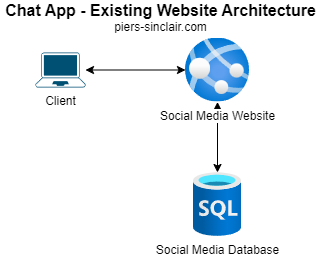
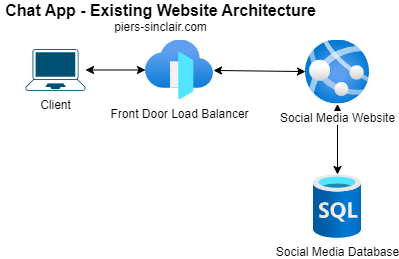
Add user status

Changed region(s): [[0.0, 0.0, 1.0, 0.9961]]

diff --git a/_posts/2024-07-07-System-Design-in-Azure-for-clients-chat-app.md b/_posts/2024-07-07-System-Design-in-Azure-for-clients-chat-app.md
@@ -156,6 +156,8 @@ Either option is fine but we'll go with Azure SignalR because our client has an 
 
 We can also isolate our chat app from the main website API using an Azure Function. This will make the chat app scaling more robust because the usage requirements are likely to be different to the social media app.
 
+Finally, you might have noticed that the client is already using Azure Front Door as a load balancer. This won't work for the chat functionality because Azure Front Door doesn't support web socket. Instead, we can use Application Gateway which [does support web socket](https://learn.microsoft.com/en-us/azure/application-gateway/application-gateway-websocket)
+
 ![Starting architecture of the client's chat app](/assets/diagrams/2024-07-07-System-Design-in-Azure-for-clients-chat-app/2.png)\
 **Figure: Starting architecture of the client's chat app**
 
@@ -165,15 +167,21 @@ Our architecture enables real-time communication nicely, but we have a problem. 
 To fix this issue we need to auto increment the message IDs in a conversation. Most NoSQL databases do not offer auto increment IDs so our message processing service will need to manage this for us.
 
 ### 4. How do we track user status?
-User login
-User logout
-User disconnects
+User status is another interesting problem. Tracking manual login and logout of the social media app is straightforward because the client will send through this info to the server, but how about when the user disconnects?
 
-Heartbeat to check if they disconnected
+In that case the client won't communicate the status to our server. To solve this problem we need to send a regular heartbeat to check that a user is still there. We can set our [SignalR clients to send a regular ping](https://learn.microsoft.com/en-us/aspnet/core/fundamentals/websockets?view=aspnetcore-8.0#handle-client-disconnects), if the server doesn't receive a ping for 5 minutes, we can assume the user has gone offline. In addition to ensure a smooth UX we probably want the client to reconnect when they lose connection, [this process is trivial in SignalR](https://learn.microsoft.com/en-us/aspnet/core/signalr/javascript-client?view=aspnetcore-8.0&tabs=visual-studio#automatically-reconnect)
 
-Via Pub Sub and websocket friends find out about status
+We'll also need to store the user status somewhere. Our chat app will need a way to start new chats, view friends and their status. Due to this functionality, we need access to user status outside of the context of a conversation. Thus we won't want to store it in the same shard as our conversations because we need access to the data outside of that context. We'll also want user status communicated quickly to ensure smooth UX, and user statuses will change frequently leading to high numbers of transactions. For these reasons, storing it in a cache is a good option.
 
-Where do we store user status? - Also in Cosmos DB because it's transitory information.
+We could use either of the following:
+- [Azure Cosmos DB integrated cache](https://learn.microsoft.com/en-us/azure/cosmos-db/integrated-cache)
+- [Azure Cache for Redis](https://learn.microsoft.com/en-us/azure/azure-cache-for-redis/cache-overview)
+
+We are going with Azure Cache for Redis because we need a way for our users to subscribe to other user's status changes and [Azure Cache for Redis comes with Pub/Sub out-of-the-box](https://learn.microsoft.com/en-us/training/modules/azure-redis-publish-subscribe-streams/). Azure Cosmos DB integrated cache is a fine alternative, but we would also need to implement [Azure Service Bus](https://learn.microsoft.com/en-us/azure/service-bus-messaging/service-bus-messaging-overview) which introduces more complexity.
+
+
+![Our chat app with Redis Cache for reporting user status](/assets/diagrams/2024-07-07-System-Design-in-Azure-for-clients-chat-app/3.png)\
+**Figure: Our chat app with Redis Cache for reporting user status**
 
 ### 5. How do we track message status?
 
